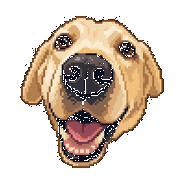
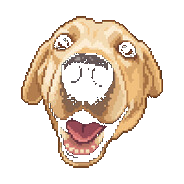
fix: make ascii ramp denser for colored pixels to make dog look solid and recognizeable

diff --git a/scripts/make_ascii_svg.py b/scripts/make_ascii_svg.py
@@ -4,13 +4,13 @@ import html
 from PIL import Image
 
 SRC = "source-prepped-color.png"
-OUT = "paulina-no-text.svg"
+OUT = "paulina-solid.svg"
 
 COLS = 100
 ROWS = 53
 CELL_W = 8
 CELL_H = 15
-RAMP = " .`:-=+*cs#%@"  # bright(sparse) -> dark(dense)
+RAMP = "=+*cs#%@W&8M"
 
 # Original internal dimensions of the ASCII art
 RAW_ART_W = COLS * CELL_W   # 800

diff --git a/scratch/prep_color.py b/scratch/prep_color.py
@@ -15,7 +15,7 @@ data = np.array(im)
 bg_color = data[0, 0] # Top-left pixel is background
 
 # Create mask where color matches bg_color (with some tolerance)
-tolerance = 15
+tolerance = 45
 diff = np.abs(data[:, :, :3].astype(int) - bg_color[:3].astype(int))
 mask = np.all(diff < tolerance, axis=-1)
 

diff --git a/README.md b/README.md
@@ -22,7 +22,7 @@
 
 <table>
   <tr>
-    <td valign="top"><img src="./paulina-no-text.svg?v=1" width="370" /></td>
+    <td valign="top"><img src="./paulina-solid.svg?v=1" width="370" /></td>
     <td valign="top"><img src="./info-card.svg?v=reset" width="490" /></td>
   </tr>
 </table>
